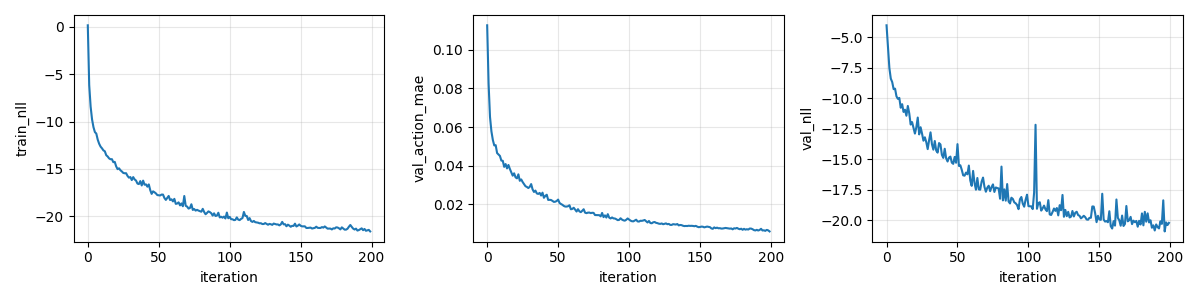
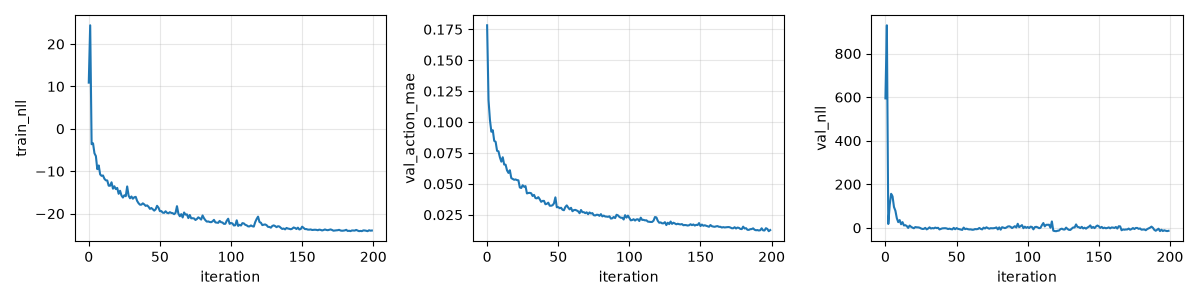
rlpd with complex traj works

diff --git a/agents/sac_agent.py b/agents/sac_agent.py
@@ -22,6 +22,12 @@ produces each iteration, pushes those transitions into a fixed-capacity
 replay buffer carried inside `train_state`, then runs its own sampled
 gradient steps against that buffer. `training_interface.py`'s generic
 `rollout()`/`train()`/`eval()` never need to know the difference.
+
+With prior data (`seed_buffer_overrides`), demos live in a separate
+offline buffer and each minibatch follows RLPD's symmetric sampling
+(Ball et al. 2023): `offline_ratio` (default 50%) of it is drawn from the
+offline demos and the rest from the online replay buffer, concatenated
+into one training batch.
 """
 
 from __future__ import annotations
@@ -121,6 +127,7 @@ class SACAgent(Agent):
         alpha_max_grad_norm: float = 1.0,
         log_alpha_min: float = -10.0,
         log_alpha_max: float = 2.0,
+        offline_ratio: float = 0.5,
     ):
         self.obs_size = obs_size
         self.action_size = action_size
@@ -133,6 +140,13 @@ class SACAgent(Agent):
         self.buffer_capacity = buffer_capacity
         self.gradient_steps = gradient_steps
         self.min_buffer_size = min_buffer_size
+        # RLPD symmetric sampling: how each minibatch splits between the
+        # offline (demo) buffer and the online replay buffer, whenever
+        # `seed_buffer_overrides` has populated the former (see update()).
+        if not 0.0 <= offline_ratio <= 1.0:
+            raise ValueError(f"offline_ratio must be in [0, 1], got {offline_ratio}")
+        self.offline_batch_size = int(round(batch_size * offline_ratio))
+        self.online_batch_size = batch_size - self.offline_batch_size
         self.target_entropy = (
             -float(action_size) if target_entropy is None else target_entropy
         )
@@ -184,7 +198,7 @@ class SACAgent(Agent):
             "q1_opt_state": self.q1_optimizer.init(q1_params),
             "q2_opt_state": self.q2_optimizer.init(q2_params),
             "alpha_opt_state": self.alpha_optimizer.init(log_alpha),
-            # Fixed-capacity ring buffer of past transitions.
+            # Fixed-capacity ring buffer of past (online) transitions.
             "buf_obs": jp.zeros((capacity, self.obs_size), dtype=jp.float32),
             "buf_action": jp.zeros((capacity, self.action_size), dtype=jp.float32),
             "buf_reward": jp.zeros((capacity,), dtype=jp.float32),
@@ -193,6 +207,15 @@ class SACAgent(Agent):
             "buf_done": jp.zeros((capacity,), dtype=jp.float32),
             "write_ptr": jp.zeros((), dtype=jp.int32),
             "buffer_size": jp.zeros((), dtype=jp.int32),
+            # Offline (demo) dataset, kept apart from the online ring buffer
+            # so rollouts never overwrite it. Empty unless
+            # `seed_buffer_overrides` fills it; update() reads its static
+            # leading dim to decide whether to use RLPD symmetric sampling.
+            "off_obs": jp.zeros((0, self.obs_size), dtype=jp.float32),
+            "off_action": jp.zeros((0, self.action_size), dtype=jp.float32),
+            "off_reward": jp.zeros((0,), dtype=jp.float32),
+            "off_next_obs": jp.zeros((0, self.obs_size), dtype=jp.float32),
+            "off_done": jp.zeros((0,), dtype=jp.float32),
             "rng": rng,
             "obs_norm": init_running_norm(self.obs_size),
         }
@@ -206,62 +229,39 @@ class SACAgent(Agent):
         demo_done,
         obs_norm: RunningNorm | None = None,
     ) -> Dict[str, Any]:
-        """Build `train_state` overrides that pre-load demonstration
-        transitions (demonstrations/demo_buffer.py's `load_demo_transitions`)
-        into the replay ring buffer, for train.py's `--demo-dir` flag.
+        """Build `train_state` overrides that load demonstration transitions
+        (demonstrations/demo_buffer.py's `load_demo_transitions`) as the
+        offline dataset for RLPD-style training, for train.py's `--demo-dir`
+        flag.
 
         This is reinforcement learning *with* prior data, not behavior
-        cloning: nothing here touches actor/critic params. The demo
-        transitions just become the oldest entries already sitting in the
-        buffer before training starts, so `update()` samples them in the
-        same minibatches as every rollout transition collected afterwards
-        (see its `grad_step`'s `sample_idx`) -- early gradient steps get
-        real expert `(obs, action, reward, next_obs, done)` tuples to
-        critic-fit against instead of only random-policy rollouts, and
-        training then proceeds completely normally (nothing in
-        training_interface.py or `update()` needs to change).
+        cloning: nothing here touches actor/critic params. The demos go into
+        a separate, never-overwritten offline buffer (`off_*`), and every
+        gradient step in `update()` concatenates an `offline_batch_size`
+        minibatch from it with an `online_batch_size` minibatch from the
+        online ring buffer (RLPD's symmetric sampling, 50/50 by default) --
+        so the critic keeps fitting real expert `(obs, action, reward,
+        next_obs, done)` tuples for the whole run while adapting to the
+        policy's own rollouts. The online buffer still has to reach
+        `min_buffer_size` before updates start.
 
         `obs_norm`, if given, is the running obs-normalization estimate to
         fold the demo observations into (e.g. one already restored from a
         `--bc-checkpoint`); defaults to a fresh `init_running_norm` otherwise.
         """
-        capacity = self.buffer_capacity
-        n = demo_obs.shape[0]
-        if n > capacity:
-            raise ValueError(
-                f"{n} demo transitions exceed buffer_capacity={capacity}; raise "
-                "buffer_capacity in configs/*.yaml's `agent` block or trim the demo set."
-            )
-
-        idx = jp.arange(n)
-        buf_obs = jp.zeros((capacity, self.obs_size), dtype=jp.float32).at[idx].set(
-            jp.asarray(demo_obs, dtype=jp.float32)
-        )
-        buf_action = jp.zeros((capacity, self.action_size), dtype=jp.float32).at[idx].set(
-            jp.asarray(demo_action, dtype=jp.float32)
-        )
-        buf_reward = jp.zeros((capacity,), dtype=jp.float32).at[idx].set(
-            jp.asarray(demo_reward, dtype=jp.float32)
-        )
-        buf_next_obs = jp.zeros((capacity, self.obs_size), dtype=jp.float32).at[idx].set(
-            jp.asarray(demo_next_obs, dtype=jp.float32)
-        )
-        buf_done = jp.zeros((capacity,), dtype=jp.float32).at[idx].set(
-            jp.asarray(demo_done, dtype=jp.float32)
-        )
+        if demo_obs.shape[0] == 0:
+            raise ValueError("No demo transitions to seed the offline buffer with.")
 
         if obs_norm is None:
             obs_norm = init_running_norm(self.obs_size)
         obs_norm = update_running_norm(obs_norm, jp.asarray(demo_obs, dtype=jp.float32))
 
         return {
-            "buf_obs": buf_obs,
-            "buf_action": buf_action,
-            "buf_reward": buf_reward,
-            "buf_next_obs": buf_next_obs,
-            "buf_done": buf_done,
-            "write_ptr": jp.asarray(n % capacity, dtype=jp.int32),
-            "buffer_size": jp.asarray(n, dtype=jp.int32),
+            "off_obs": jp.asarray(demo_obs, dtype=jp.float32),
+            "off_action": jp.asarray(demo_action, dtype=jp.float32),
+            "off_reward": jp.asarray(demo_reward, dtype=jp.float32),
+            "off_next_obs": jp.asarray(demo_next_obs, dtype=jp.float32),
+            "off_done": jp.asarray(demo_done, dtype=jp.float32),
             "obs_norm": obs_norm,
         }
 
@@ -318,6 +318,16 @@ class SACAgent(Agent):
         new_write_ptr = (write_ptr + total) % capacity
         new_buffer_size = jp.minimum(train_state["buffer_size"] + total, capacity)
 
+        # Offline (demo) dataset: static size, so whether to mix it in is a
+        # trace-time decision rather than a jax.lax.cond.
+        off_obs = train_state["off_obs"]
+        off_action = train_state["off_action"]
+        off_reward = train_state["off_reward"]
+        off_next_obs = train_state["off_next_obs"]
+        off_done = train_state["off_done"]
+        n_offline = off_obs.shape[0]
+        use_offline = n_offline > 0
+
         # Fold this iteration's raw observations into the running estimate
         # before sampling minibatches below, so every gradient step in this
         # call (old buffer entries included) normalizes with the freshest
@@ -346,17 +356,33 @@ class SACAgent(Agent):
                 log_alpha, actor_opt_state, q1_opt_state, q2_opt_state, alpha_opt_state,
             ) = carry
 
-            idx_rng, next_a_rng, a_rng = jax.random.split(step_rng, 3)
-            sample_idx = jax.random.randint(
-                idx_rng, (self.batch_size,), 0, new_buffer_size
-            )
+            idx_rng, off_idx_rng, next_a_rng, a_rng = jax.random.split(step_rng, 4)
+            if use_offline:
+                # RLPD symmetric sampling: distinct minibatches from the
+                # online buffer and the offline dataset, concatenated into
+                # one training batch.
+                on_idx = jax.random.randint(
+                    idx_rng, (self.online_batch_size,), 0, new_buffer_size
+                )
+                off_idx = jax.random.randint(
+                    off_idx_rng, (self.offline_batch_size,), 0, n_offline
+                )
+                sample = lambda on_buf, off_buf: jp.concatenate(
+                    [on_buf[on_idx], off_buf[off_idx]], axis=0
+                )
+            else:
+                sample_idx = jax.random.randint(
+                    idx_rng, (self.batch_size,), 0, new_buffer_size
+                )
+                sample = lambda on_buf, off_buf: on_buf[sample_idx]
+
             # Buffers hold raw observations regardless of when they were
             # collected; normalize with the freshest running stats here.
-            mb_obs = normalize_obs(new_obs_norm, buf_obs[sample_idx])
-            mb_action = buf_action[sample_idx]
-            mb_reward = buf_reward[sample_idx]
-            mb_next_obs = normalize_obs(new_obs_norm, buf_next_obs[sample_idx])
-            mb_done = buf_done[sample_idx]
+            mb_obs = normalize_obs(new_obs_norm, sample(buf_obs, off_obs))
+            mb_action = sample(buf_action, off_action)
+            mb_reward = sample(buf_reward, off_reward)
+            mb_next_obs = normalize_obs(new_obs_norm, sample(buf_next_obs, off_next_obs))
+            mb_done = sample(buf_done, off_done)
 
             alpha = jp.exp(log_alpha)
 
@@ -492,6 +518,11 @@ class SACAgent(Agent):
             "buf_done": buf_done,
             "write_ptr": new_write_ptr,
             "buffer_size": new_buffer_size,
+            "off_obs": off_obs,
+            "off_action": off_action,
+            "off_reward": off_reward,
+            "off_next_obs": off_next_obs,
+            "off_done": off_done,
             "rng": rng,
             "obs_norm": new_obs_norm,
         }

diff --git a/train.py b/train.py
@@ -1,3 +1,5 @@
+"""python3 -m train --config configs/train_sac_cpu.yaml --demo-dir"""
+
 import argparse
 import shutil
 from pathlib import Path
@@ -38,13 +40,13 @@ def main():
     )
     parser.add_argument(
         "--demo-dir", nargs="?", const="demonstrations", default=None,
-        help="Seed SACAgent's replay buffer with teleop.py demonstrations (demo_*.npz files "
-             "under this directory, default 'demonstrations' if flag given with no value) "
+        help="Load teleop.py demonstrations (demo_*.npz files under this directory, default "
+             "'demonstrations' if flag given with no value) into SACAgent's offline dataset "
              "before training starts, instead of/alongside --bc-checkpoint's supervised "
-             "warm start: this is RL *with* prior data rather than imitation -- the demo "
-             "(obs, action, reward, next_obs, done) transitions just become the oldest "
-             "entries already in the buffer, and training then proceeds completely normally "
-             "(see agents/sac_agent.py's `seed_buffer_overrides`). Only valid with `algo: sac`.",
+             "warm start: this is RL *with* prior data rather than imitation -- every gradient "
+             "step then mixes a minibatch from these demo (obs, action, reward, next_obs, done) "
+             "transitions with one from the online replay buffer (RLPD symmetric sampling, see "
+             "agents/sac_agent.py's `seed_buffer_overrides`). Only valid with `algo: sac`.",
     )
     args = parser.parse_args()
     cfg = load_config(args.config)
@@ -91,17 +93,18 @@ def main():
             print(f"[WARNING] {bc_obs_norm_path} not found; keeping untrained obs-normalization stats.")
         print(f"Warm-starting {algo} policy from BC checkpoint: {bc_path}")
 
-    # 2c. Optionally seed SACAgent's replay buffer with teleop.py
-    # demonstrations, so off-policy training starts with real expert
-    # transitions already in the buffer alongside whatever the (still
-    # randomly-initialized, unless --bc-checkpoint above was also given)
-    # policy collects itself -- see agents/sac_agent.py's
-    # `seed_buffer_overrides` module-level docstring for why this is RL
-    # with prior data rather than a second flavor of BC.
+    # 2c. Optionally load teleop.py demonstrations into SACAgent's offline
+    # dataset, so off-policy training uses RLPD's symmetric sampling: every
+    # gradient step mixes minibatches from these demos with minibatches from
+    # the online replay buffer the (still randomly-initialized, unless
+    # --bc-checkpoint above was also given) policy fills as it collects its
+    # own rollouts -- see agents/sac_agent.py's `seed_buffer_overrides`
+    # module-level docstring for why this is RL with prior data rather than
+    # a second flavor of BC.
     if args.demo_dir:
         if algo != "sac":
             raise ValueError(
-                f"--demo-dir seeds SACAgent's replay buffer and doesn't apply to algo={algo!r} "
+                f"--demo-dir seeds SACAgent's offline dataset and doesn't apply to algo={algo!r} "
                 "(no replay buffer to seed); drop --demo-dir or switch to `algo: sac`."
             )
         demo = load_demo_transitions(args.demo_dir)
@@ -119,8 +122,8 @@ def main():
         )
         init_overrides = {**(init_overrides or {}), **demo_overrides}
         print(
-            f"Seeded SAC replay buffer with {demo.obs.shape[0]} demo transitions "
-            f"from {args.demo_dir}"
+            f"Loaded {demo.obs.shape[0]} demo transitions from {args.demo_dir} into "
+            "SAC's offline dataset"
         )
 
     # 3. Train. Swapping `agent` swaps the whole algorithm; swapping the
